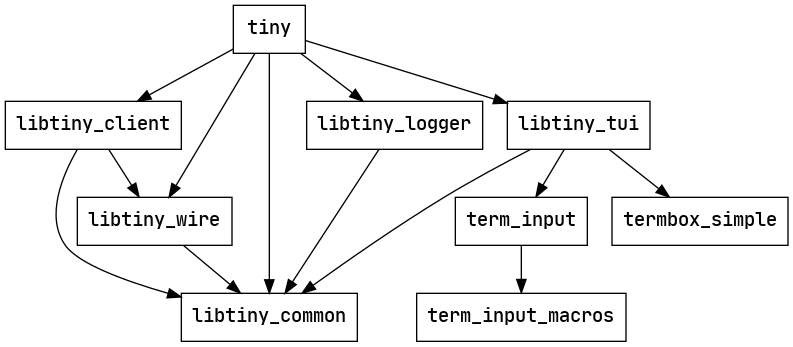
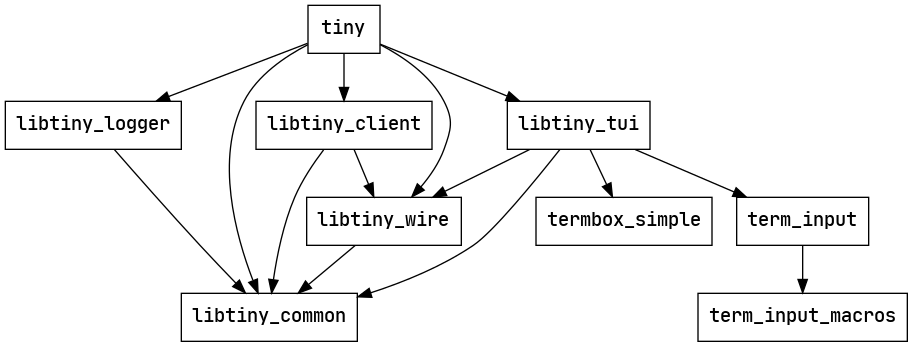
Update ARCHITECTURE.md

diff --git a/ARCHITECTURE.md b/ARCHITECTURE.md
@@ -103,6 +103,7 @@ for user input events and a TUI handle to update the TUI. The types are:
 | term_input     | Input handling (reading events from `stdin`) |
 | termbox_simple | Terminal manipulation (drawing) |
 | libtiny_common | The "channel name" type |
+| libtiny_wire   | Parsing IRC message formatting characters (colors etc.) |
 
 ### libtiny_wire
 

diff --git a/assets/README.md b/assets/README.md
@@ -1,0 +1,5 @@
+Update `crate_deps.png` with:
+
+```
+dot -Tpng crate_deps.dot > crate_deps.png
+```
